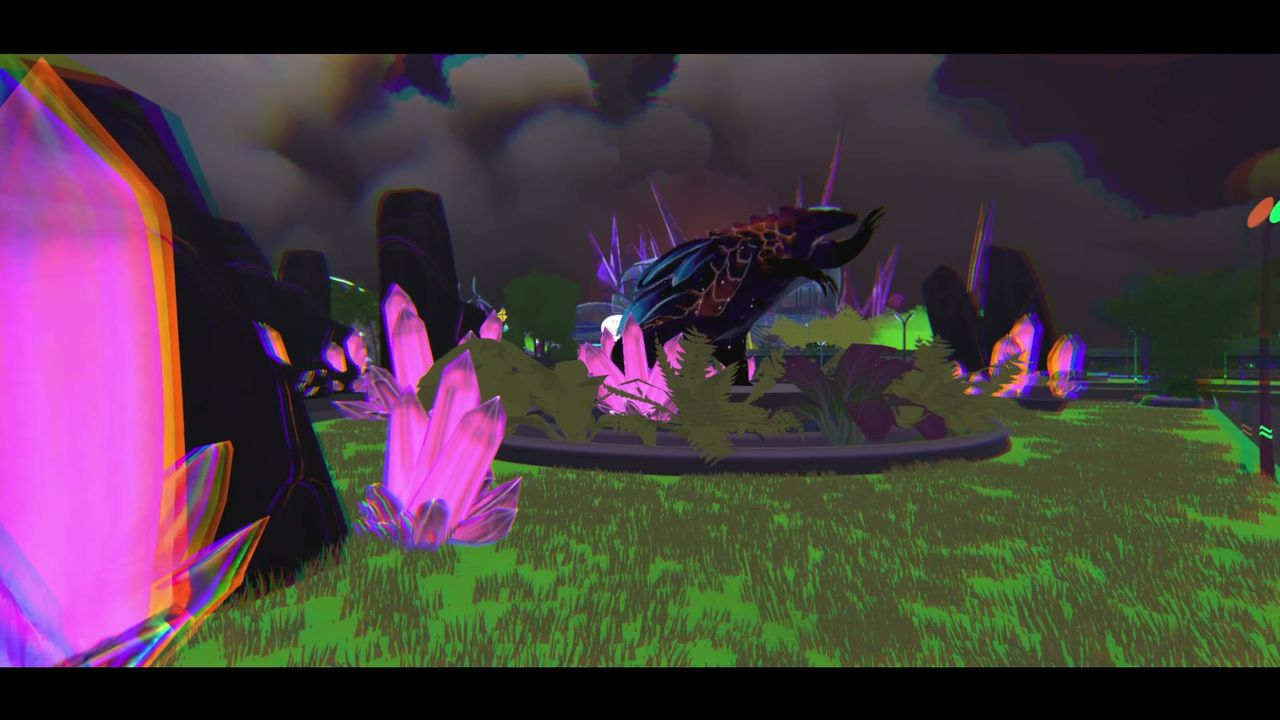
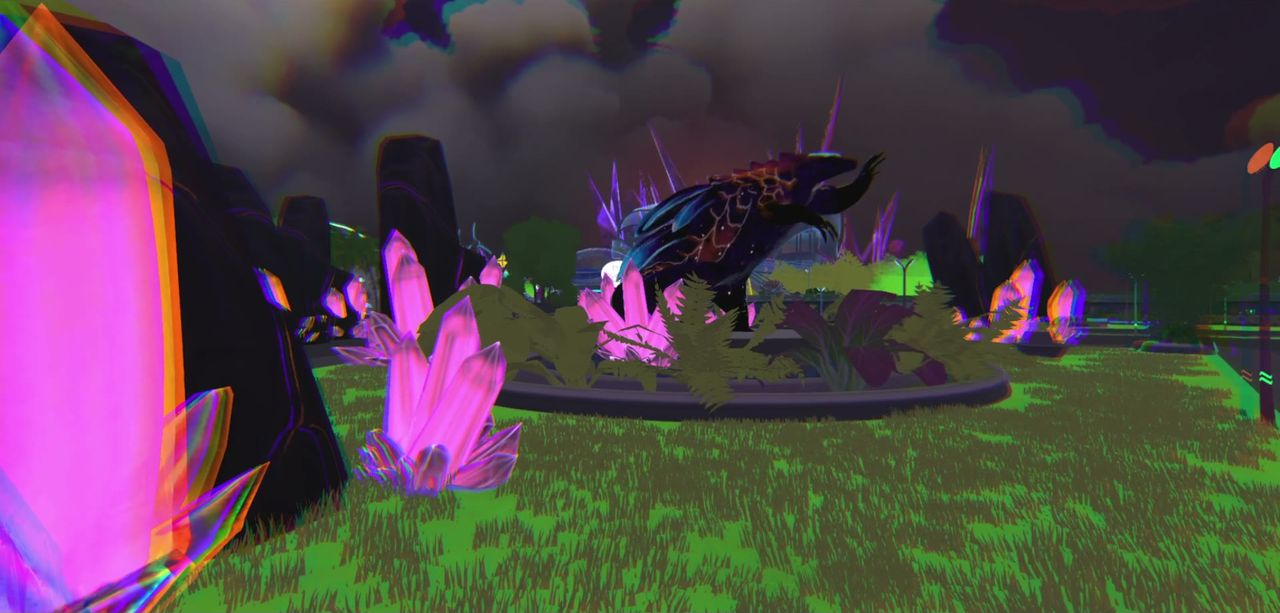
Saca la banda negra de la imagen principal de SolAR
El poster que publica kykuyo.com viene con letterbox: 81px de negro
arriba y 79 abajo sobre 1080. Al mostrarlo en 16:9 esa banda quedaba a
la vista arriba y abajo de la foto grande de SolAR. Se recorta al
contenido real y se reencoda, y el atributo height del img pasa de 720
a 613 para que siga sin haber layout shift.

Es la unica de las catorce con este problema, verificado midiendo las
filas y columnas negras de cada archivo.

diff --git a/index.html b/index.html
@@ -300,7 +300,7 @@ footer{border-top:1px solid var(--line);padding:26px 0 40px}
         <div class="shot">
           <span class="tag">Publicado · iOS y Android</span>
           <!-- Material de prensa publico de KYKUYO, copiado al repo para no depender de kykuyo.com -->
-          <picture><source srcset="assets/solar/gameplay.webp" type="image/webp"><img src="assets/solar/gameplay.jpg" width="1280" height="720" alt="Gameplay de SolAR en las calles de Singapur"></picture>
+          <picture><source srcset="assets/solar/gameplay.webp" type="image/webp"><img src="assets/solar/gameplay.jpg" width="1280" height="613" alt="Gameplay de SolAR en las calles de Singapur"></picture>
           <div class="strip">
             <picture><source srcset="assets/solar/enemigos.webp" type="image/webp"><img src="assets/solar/enemigos.jpg" width="640" height="360" loading="lazy" alt="Enemigos robot avanzando por una arena de neón"></picture>
             <picture><source srcset="assets/solar/trailer.webp" type="image/webp"><img src="assets/solar/trailer.jpg" width="640" height="360" loading="lazy" alt="Fotograma del trailer de SolAR"></picture>
